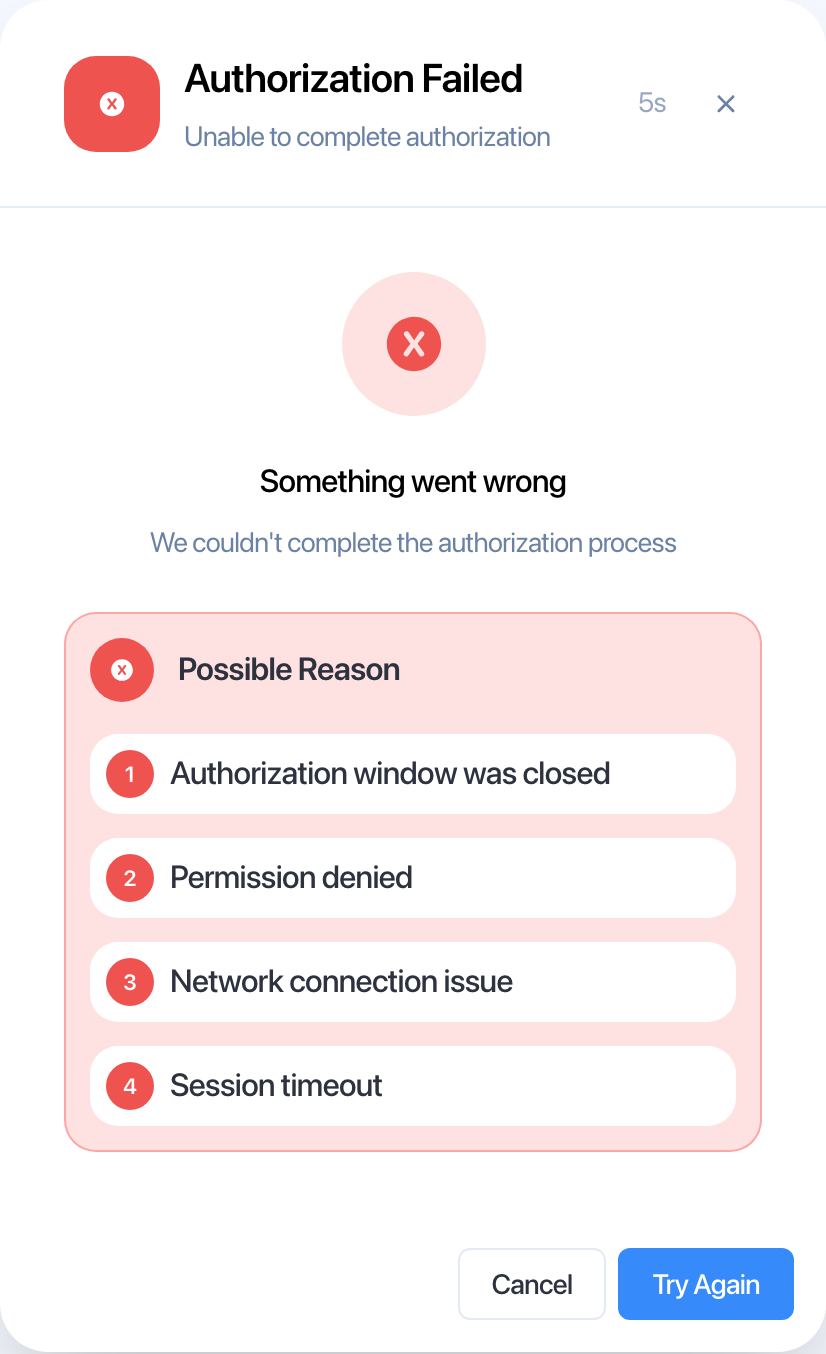
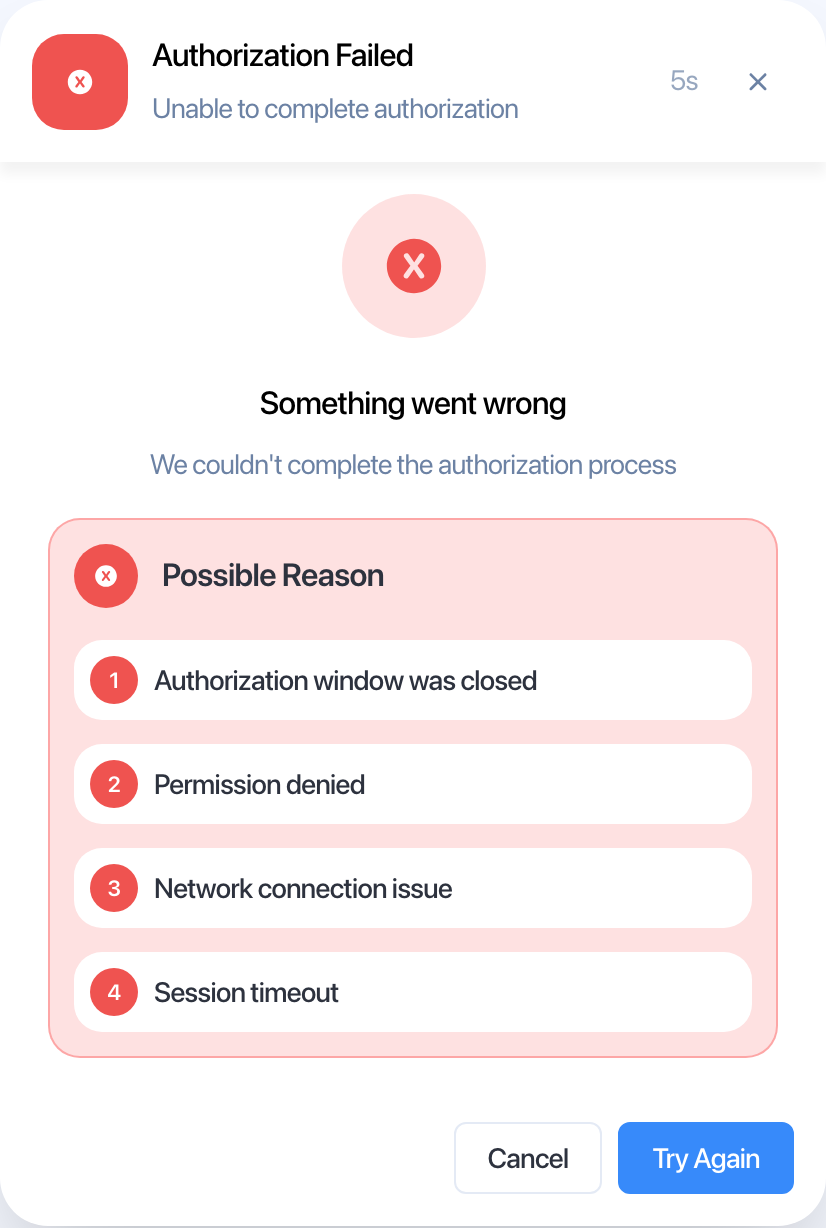
Put the authorization popup on the modal shell (Figma 2077:8807)
The popup drew its own card, head, and body on metrics that had drifted from
the shell: a 32px head pad against the drawn 16, a 32px body pad against
24 horizontal and 16 vertical, a semibold title against L Medium, and a
1px border where the shell uses a shadow. It looked like a different dialog
because it was one.

It now renders through ModalCard and ModalContent, so all seven metrics come
from the shell rather than from the popup's own block:

  header   16px padding all round, title at L (Medium, 16px)
  content  16px gap, 24px left/right, 16px top/bottom, body at M (14px)
  footer   16px padding all round, 8px between buttons

Two token corrections behind that. modal.content.paddingBottom was 12 where
Figma draws 16 — inherited from the schedule dialog's tighter body, which is
not what the shell specifies. modal.footer.gap was spacing.xs (6) where Figma
draws 8; held as a literal, since 8 sits between xs and s on the scale.

ModalContent also carries the body typography now, so a dialog's text starts
at the right size instead of each one setting it.

The head stays the popup's own markup — Figma draws a status tile, a two-line
title, and a countdown there, where ModalHeader is a title and a close button.
Its metrics are the shell's; only the contents differ.

Screenshots re-rendered against the corrected metrics.

diff --git a/packages/ui/src/components/UpworkAccounts/AuthorizationPopup.tsx b/packages/ui/src/components/UpworkAccounts/AuthorizationPopup.tsx
@@ -10,11 +10,11 @@ import {
 } from '../../icons/defs.js';
 import { Button } from '../Button/Button.js';
 import { IconButton } from '../Button/IconButton.js';
-import { ModalFooter } from '../Modal/ModalBands.js';
+import { ModalCard, ModalContent, ModalFooter } from '../Modal/ModalBands.js';
 import { Spinner } from '../Spinner/Spinner.js';
 import { AuthorizationSteps } from './AuthorizationSteps.js';
 
-const { upworkAccounts } = component;
+const { upworkAccounts, modal } = component;
 
 /**
  * Where the authorization attempt has got to.
@@ -237,22 +237,17 @@ export const AuthorizationPopup = forwardRef<HTMLDivElement, AuthorizationPopupP
     const showGoToInbox = state === 'success' && onGoToInbox != null;
     const showRetry = state === 'failed' && onRetry != null;
 
-    const style: CSSProperties = {
-      boxSizing: 'border-box',
-      display: 'flex',
-      flexDirection: 'column',
-      alignItems: 'flex-start',
-      width: len(width) ?? `${popup.width}px`,
-      maxWidth: '100%',
-      borderRadius: len(radius) ?? `${popup.radius}px`,
-      backgroundColor: background ?? color.main.white,
-      boxShadow: shadow ?? popup.shadow,
-      overflow: 'hidden',
-      fontFamily: typography.fontFamily.base,
-    };
-
     return (
-      <div {...rest} ref={ref} style={style} role="dialog" aria-modal="true">
+      <ModalCard
+        {...rest}
+        ref={ref}
+        role="dialog"
+        aria-modal="true"
+        width={width ?? popup.width}
+        radius={radius ?? popup.radius}
+        background={background}
+        shadow={shadow ?? popup.shadow}
+      >
         <div
           style={{
             boxSizing: 'border-box',
@@ -260,10 +255,14 @@ export const AuthorizationPopup = forwardRef<HTMLDivElement, AuthorizationPopupP
             alignItems: 'center',
             gap: len(headGap) ?? `${popup.headGap}px`,
             width: '100%',
-            padding: `${len(headPaddingY) ?? `${popup.headPaddingY}px`} ${
-              len(headPaddingX) ?? `${popup.headPaddingX}px`
+            padding: `${len(headPaddingY) ?? `${modal.header.padding}px`} ${
+              len(headPaddingX) ?? `${modal.header.padding}px`
             }`,
-            borderBottom: `1px solid ${color.main.backgroundAlt}`,
+            // The modal shell's own separator — a shadow rather than a border,
+            // so it only reads once there is something scrolling under it.
+            position: 'relative',
+            zIndex: 1,
+            boxShadow: modal.header.shadow,
           }}
         >
           <span
@@ -302,8 +301,8 @@ export const AuthorizationPopup = forwardRef<HTMLDivElement, AuthorizationPopupP
           >
             <span
               style={{
-                ...typography.textStyle.lSemibold,
-                fontSize: popup.titleFontSize,
+                ...typography.textStyle.lMedium,
+                fontSize: modal.header.fontSize,
                 color: color.main.black,
               }}
             >
@@ -332,15 +331,11 @@ export const AuthorizationPopup = forwardRef<HTMLDivElement, AuthorizationPopupP
           )}
         </div>
 
-        <div
-          style={{
-            boxSizing: 'border-box',
-            display: 'flex',
-            flexDirection: 'column',
-            gap: len(bodyGap) ?? `${popup.bodyGap}px`,
-            width: '100%',
-            padding: len(bodyPadding) ?? `${popup.bodyPadding}px`,
-          }}
+        <ModalContent
+          gap={bodyGap}
+          paddingX={bodyPadding}
+          paddingTop={bodyPadding}
+          paddingBottom={bodyPadding}
         >
           <div
             style={{
@@ -437,7 +432,7 @@ export const AuthorizationPopup = forwardRef<HTMLDivElement, AuthorizationPopupP
               markerBackground={spec.accent}
             />
           </div>
-        </div>
+        </ModalContent>
 
         {/* Only the two terminal states get a footer. An attempt in flight has
             nothing to offer but waiting, and a button there would suggest
@@ -457,7 +452,7 @@ export const AuthorizationPopup = forwardRef<HTMLDivElement, AuthorizationPopupP
             {showGoToInbox && <Button onClick={onGoToInbox}>{goToInboxLabel}</Button>}
           </ModalFooter>
         )}
-      </div>
+      </ModalCard>
     );
   },
 );

diff --git a/packages/ui/src/components/Modal/ModalBands.tsx b/packages/ui/src/components/Modal/ModalBands.tsx
@@ -130,6 +130,9 @@ export type ModalContentStyleProps = {
   paddingTop?: CssLength;
   paddingBottom?: CssLength;
   gap?: CssLength;
+  /** Body type size. Figma draws the M step, 14px. */
+  fontSize?: CssLength;
+  textColor?: string;
 };
 
 export type ModalContentProps = {
@@ -143,7 +146,7 @@ export type ModalContentProps = {
   Omit<HTMLAttributes<HTMLDivElement>, 'className' | 'style'>;
 
 export const ModalContent = forwardRef<HTMLDivElement, ModalContentProps>(function ModalContent(
-  { children, maxHeight, paddingX, paddingTop, paddingBottom, gap, ...rest },
+  { children, maxHeight, paddingX, paddingTop, paddingBottom, gap, fontSize, textColor, ...rest },
   ref,
 ) {
   const style: CSSProperties = {
@@ -161,6 +164,10 @@ export const ModalContent = forwardRef<HTMLDivElement, ModalContentProps>(functi
     overflowX: 'clip',
     overflowY: 'auto',
     maxHeight: len(maxHeight),
+    fontFamily: typography.fontFamily.base,
+    fontSize: len(fontSize) ?? `${modal.content.fontSize}px`,
+    letterSpacing: typography.letterSpacing.m,
+    color: textColor ?? color.navbar.textActive,
   };
 
   return (

diff --git a/packages/theme/src/tokens/components.ts b/packages/theme/src/tokens/components.ts
@@ -1005,14 +1005,16 @@ export const modal = {
   content: {
     paddingX: spacing.l,
     paddingTop: spacing.m,
-    paddingBottom: spacing.s,
+    paddingBottom: spacing.m,
     /** Space between blocks inside the body. */
     gap: spacing.m,
+    /** Body type size — 14px, the M step. */
+    fontSize: fontSize.m,
   },
   footer: {
     padding: spacing.m,
-    /** Space between the footer's buttons. */
-    gap: spacing.xs,
+    /** Space between the footer's buttons. Figma draws 8px. */
+    gap: 8,
   },
   /**
    * The dialog shell's own shadow, which is tighter than the generic modal
